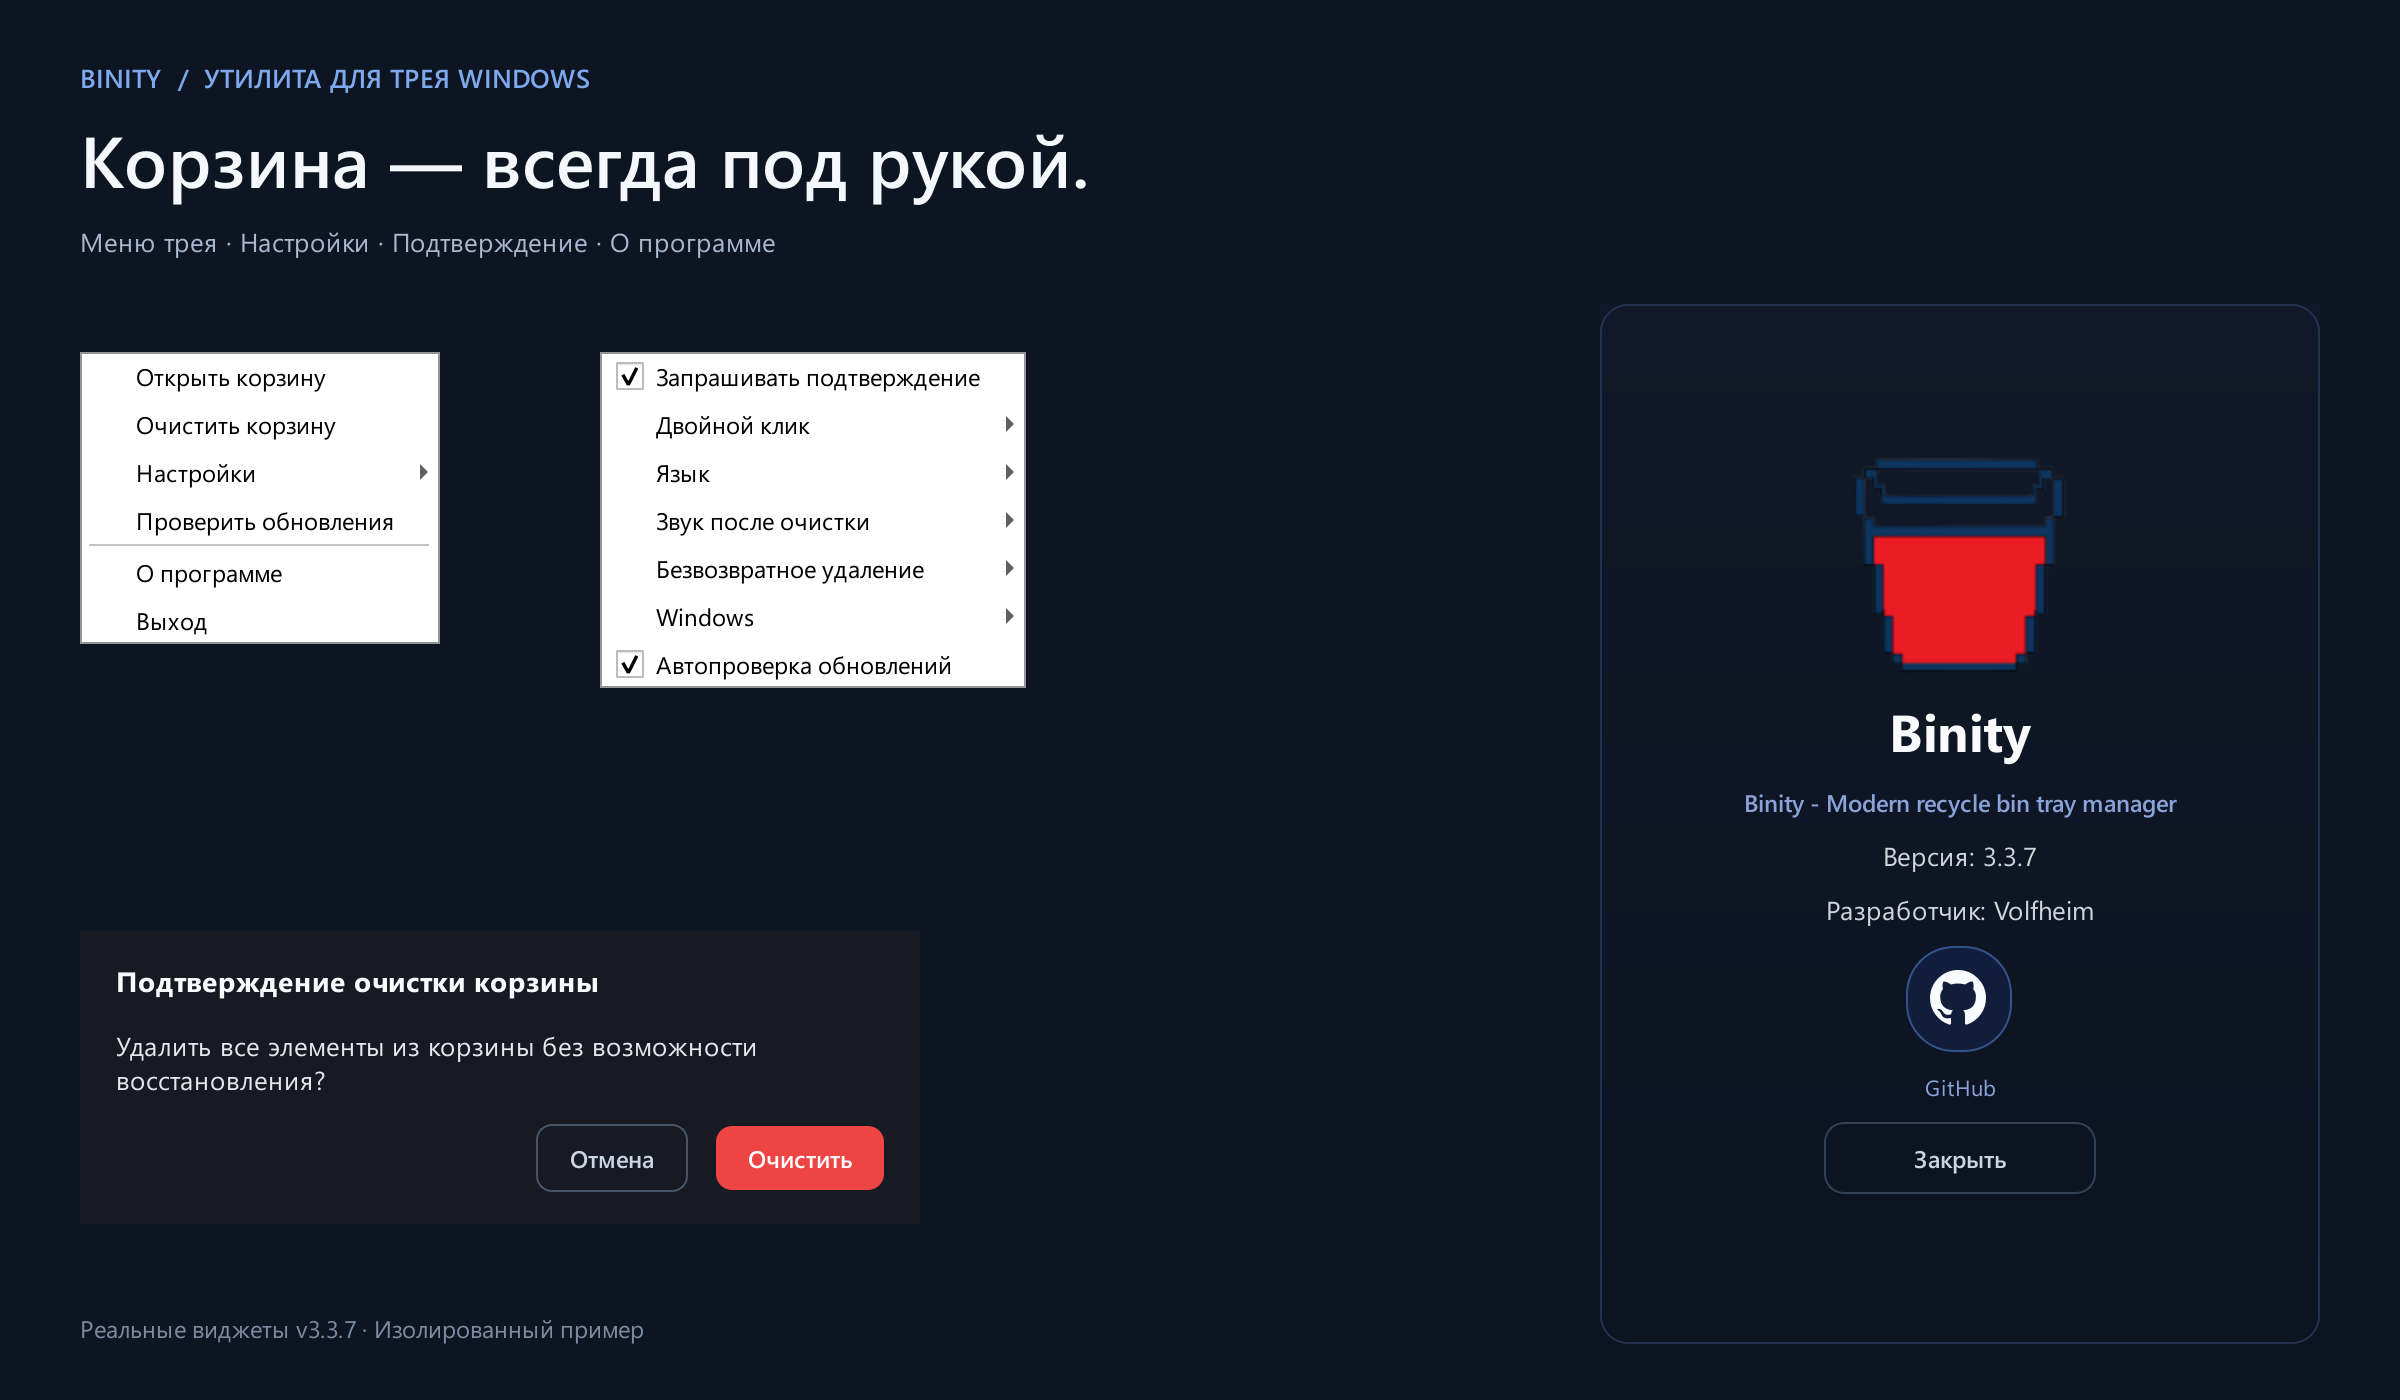
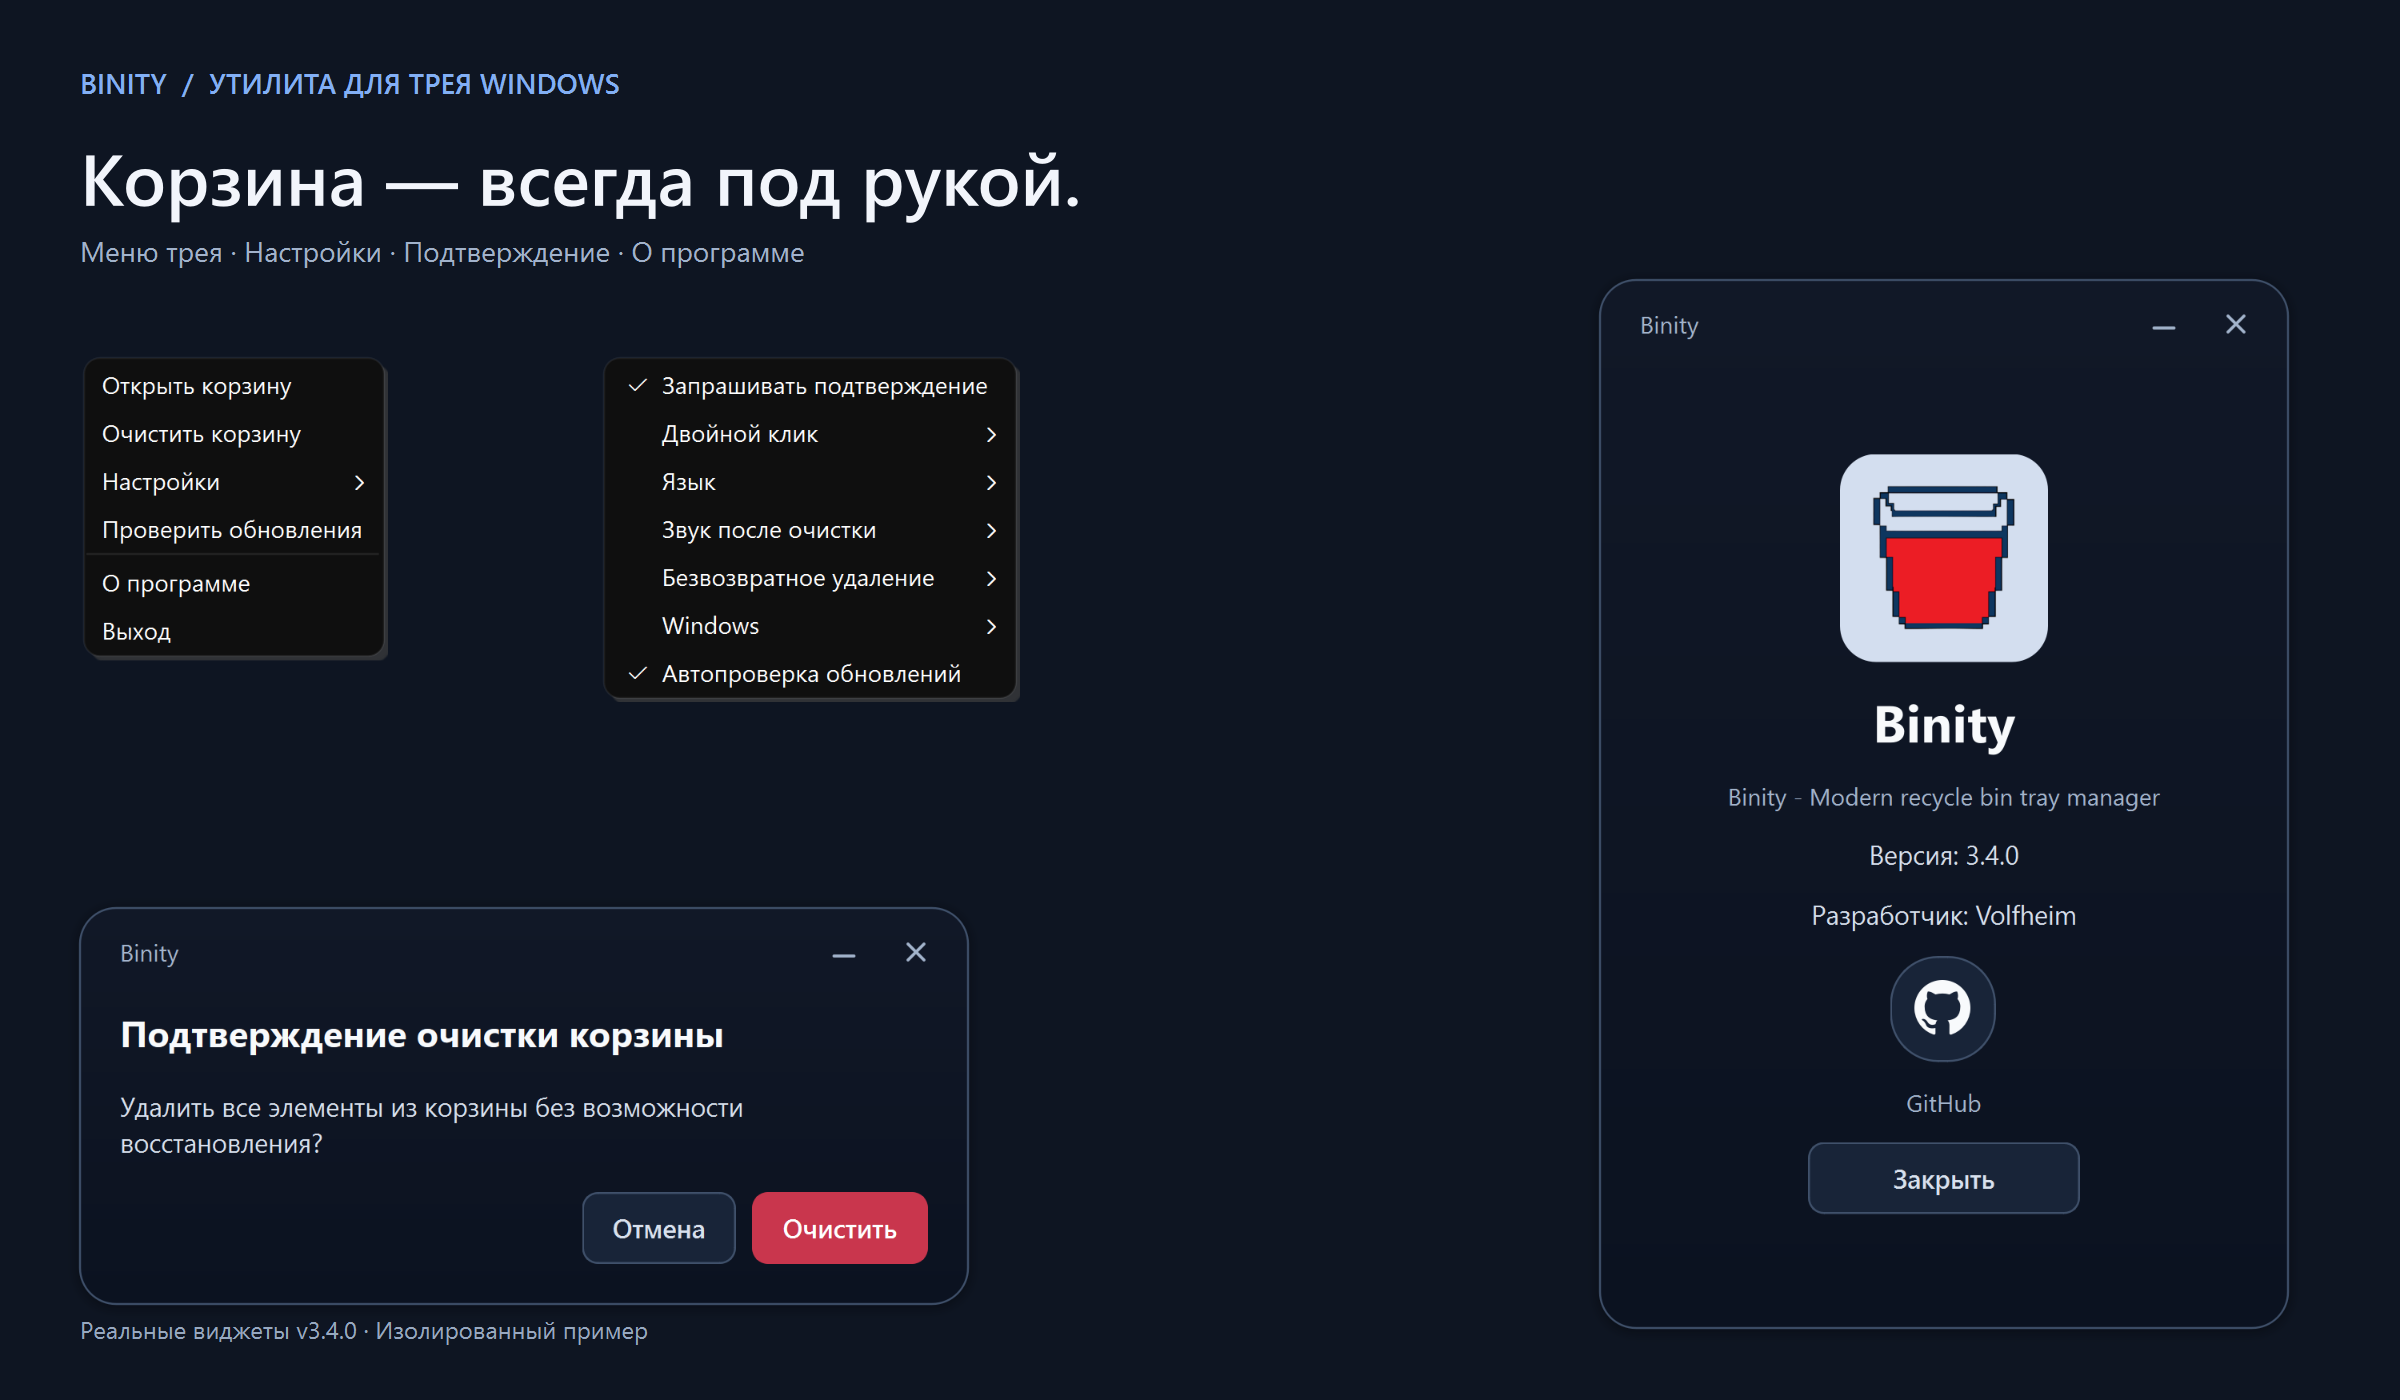
Refresh bilingual README overview with actual Binity 3.4.0 windows
Preserve the existing overview composition, replace outdated screenshots with current native Qt widgets, and correct both version captions. Add an isolated renderer so future screenshots can be regenerated without touching user settings or the recycle bin.

diff --git a/tests/preview_readme.py b/tests/preview_readme.py
@@ -1,0 +1,119 @@
+"""Render the bilingual README overview from real, isolated Windows Qt widgets.
+
+Run on Windows: py -3.13 tests/preview_readme.py
+No tray registration, user settings, recycle-bin operations, or visible windows.
+"""
+import os
+from pathlib import Path
+import sys
+
+os.environ["QT_QPA_PLATFORM"] = "windows"
+os.environ.setdefault("QT_SCALE_FACTOR", "2")
+ROOT = Path(__file__).resolve().parents[1]
+sys.path.insert(0, str(ROOT))
+
+from PyQt6.QtCore import QPointF, QRectF, Qt
+from PyQt6.QtGui import QColor, QFont, QIcon, QImage, QPainter
+from PyQt6.QtTest import QTest
+from PyQt6.QtWidgets import QApplication, QMenu
+
+from src.ui.dialogs.about_dialog import AboutDialog
+from src.ui.dialogs.confirm_dialog import ConfirmDialog
+from src.ui.theme import ThemeController
+from src.version import __version__
+from tests.test_themes import ScreenHarness
+
+
+COPY = {
+    "EN": (
+        "BINITY  /  WINDOWS TRAY UTILITY",
+        "Your Recycle Bin, within reach.",
+        "Tray menu · Settings · Confirmation · About",
+        f"Actual v{__version__} widgets · Isolated example state",
+        "main-window.png",
+    ),
+    "RU": (
+        "BINITY  /  УТИЛИТА ДЛЯ ТРЕЯ WINDOWS",
+        "Корзина — всегда под рукой.",
+        "Меню трея · Настройки · Подтверждение · О программе",
+        f"Реальные виджеты v{__version__} · Изолированный пример",
+        "main-window-ru.png",
+    ),
+}
+
+
+def main():
+    app = QApplication([])
+    app.setQuitOnLastWindowClosed(False)
+    app.setWindowIcon(QIcon(str(ROOT / "icons/bin_full.ico")))
+    app.styleHints().setColorScheme(Qt.ColorScheme.Dark)
+    manager = ThemeController(app)
+    app.processEvents()
+    assert manager.current_theme == "dark"
+    output = ROOT / "docs/images"
+    output.mkdir(parents=True, exist_ok=True)
+
+    for language, (eyebrow, title, subtitle, footer, filename) in COPY.items():
+        controller = ScreenHarness(language, "dark")
+        controller.updater.has_update = False
+        controller._refresh_update_action_text()
+        about = AboutDialog(controller.i18n, "dark")
+        confirmation = ConfirmDialog(controller.i18n, theme="dark")
+        widgets = (controller.menu, controller.settings_menu, confirmation, about)
+        images = []
+        for widget in widgets:
+            widget.setAttribute(Qt.WidgetAttribute.WA_DontShowOnScreen)
+            widget.show()
+            app.processEvents()
+            # Native menu text can finish painting after the first event cycle.
+            if isinstance(widget, QMenu):
+                QTest.qWait(250)
+            pixmap = widget.grab()
+            assert not pixmap.isNull()
+            assert widget.palette().color(widget.backgroundRole()).lightness() < 128
+            images.append(pixmap)
+            widget.hide()
+        assert __version__ in about.version_label.text()
+
+        sheet = QImage(2400, 1400, QImage.Format.Format_RGB32)
+        sheet.fill(QColor("#0e1522"))
+        painter = QPainter(sheet)
+        painter.setRenderHint(QPainter.RenderHint.Antialiasing)
+        painter.setRenderHint(QPainter.RenderHint.TextAntialiasing)
+        painter.setRenderHint(QPainter.RenderHint.SmoothPixmapTransform)
+        painter.scale(2, 2)
+
+        def text(value, x, y, width, height, size, color, bold=False):
+            font = QFont("Segoe UI")
+            font.setPixelSize(size)
+            font.setWeight(QFont.Weight.DemiBold if bold else QFont.Weight.Normal)
+            painter.setFont(font)
+            painter.setPen(QColor(color))
+            assert painter.fontMetrics().horizontalAdvance(value) <= width, value
+            painter.drawText(QRectF(x, y, width, height), Qt.AlignmentFlag.AlignLeft
+                             | Qt.AlignmentFlag.AlignVCenter, value)
+
+        text(eyebrow, 40, 27, 1120, 28, 14, "#82aff5", True)
+        text(title, 40, 59, 1120, 58, 36, "#f2f5fb", True)
+        text(subtitle, 40, 112, 1120, 26, 14, "#a1b2cb")
+        text(footer, 40, 651, 690, 27, 12, "#97a8c0")
+
+        positions = ((40, 177), (300, 177), (32, 446), (792, 132))
+        placed = []
+        for widget, pixmap, (x, y) in zip(widgets, images, positions):
+            rect = QRectF(x, y, widget.width(), widget.height())
+            assert QRectF(0, 0, 1200, 700).contains(rect), (language, rect)
+            assert all(not rect.intersects(other) for other in placed), (language, rect)
+            placed.append(rect)
+            painter.drawPixmap(QPointF(x, y), pixmap)
+        painter.end()
+        assert sheet.save(str(output / filename))
+        print(f"{language}: {filename}, 2400x1400, Binity {__version__}")
+        for widget in (confirmation, about):
+            widget.deleteLater()
+        controller.dispose()
+        app.processEvents()
+
+
+if __name__ == "__main__":
+    main()

diff --git a/README.ru.md b/README.ru.md
@@ -16,7 +16,7 @@
 
 ![Меню трея, настройки, подтверждение очистки и окно «О программе» Binity на русском](docs/images/main-window-ru.png)
 
-<sub>Реальные Qt-виджеты v3.3.9, отрисованные из исходников с изолированными настройками и собранные в один обзор. Вид системного меню может зависеть от Windows. Для этого изображения файлы не удалялись.</sub>
+<sub>Реальные Qt-виджеты v3.4.0, отрисованные из исходников с изолированными настройками и собранные в один обзор. Вид системного меню может зависеть от Windows. Для этого изображения файлы не удалялись.</sub>
 
 ## Маленькая иконка. Всё нужное рядом.
 

diff --git a/README.md b/README.md
@@ -16,7 +16,7 @@ A small Windows tray utility to see, open, and empty your Recycle Bin.
 
 ![Binity tray menu, settings, confirmation and About dialog in English](docs/images/main-window.png)
 
-<sub>Real v3.3.9 Qt widgets rendered from source with isolated example settings, arranged together for this overview. Native menu appearance can vary with Windows. No files were deleted to make this image.</sub>
+<sub>Real v3.4.0 Qt widgets rendered from source with isolated example settings, arranged together for this overview. Native menu appearance can vary with Windows. No files were deleted to make this image.</sub>
 
 ## Small icon. Everyday control.
 
